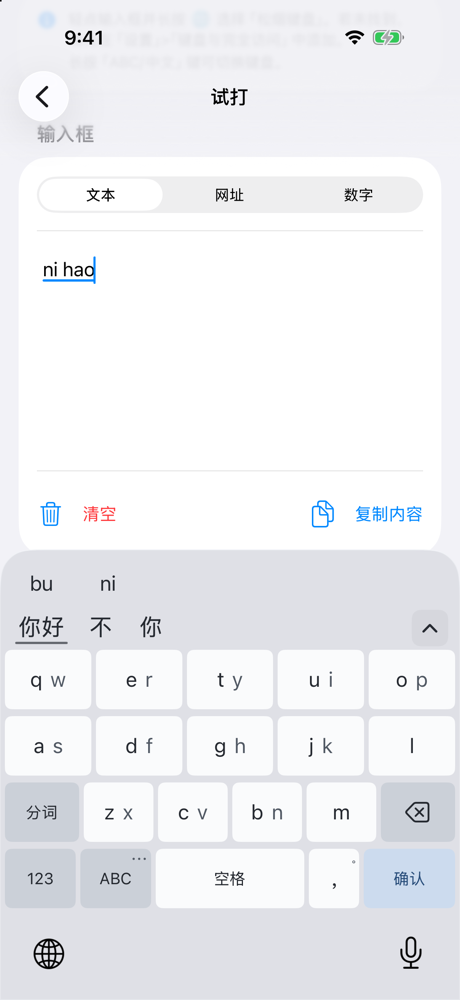
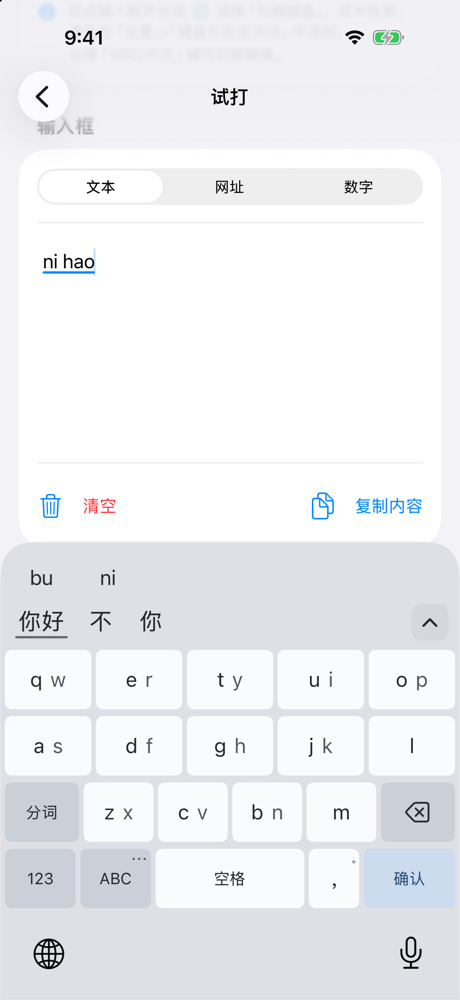
fix(keyboard): one top and bottom candidate gap shared by every layout

diff --git a/Packages/CandidateKit/Sources/CandidateKit/KeyboardPanelGeometry.swift b/Packages/CandidateKit/Sources/CandidateKit/KeyboardPanelGeometry.swift
@@ -181,20 +181,33 @@ public extension KeyboardPanelGeometry {
             + (candidateArea ? candidateAreaBonus - (reading ? readingLayoutBonusCut : 0) : 0)
     }
 
-    /// Extra height the candidate area gets beyond the configured budget (the configured budget alone leaves it too narrow),
-    /// minus the temporary `hostGapWorkaroundCut`. The candidate text sits low in the band
-    /// (`CandidateReadingRowPolicy.candidateDrop`), so the band is short below the text, not above it.
-    static let candidateAreaBonus: Double = 12 - hostGapWorkaroundCut
+    /// The two gaps every layout shares, as space beyond half the configured candidate row
+    /// (the candidate text is centred in that row):
+    /// - `candidateBottomSpace`: between the candidate text and the keys;
+    /// - `candidateTopSpace`: above the first text row (candidates on 9/26-key, readings on 14/18-key),
+    ///   before `hostGapWorkaroundCut` comes off the top.
+    /// 9/26-key and 14/18-key derive their band heights and text offsets from these, so a change to
+    /// either gap moves every layout together.
+    static let candidateBottomSpace: Double = 3
+    static let candidateTopSpace: Double = 9
+    /// Extra height the candidate area gets beyond the configured budget: both shared gaps,
+    /// minus the temporary `hostGapWorkaroundCut`.
+    static let candidateAreaBonus: Double = candidateTopSpace + candidateBottomSpace - hostGapWorkaroundCut
     /// TEMPORARY: iOS often adds a 17pt blank band above a third-party keyboard (after switching from a system
     /// keyboard or returning to the app; FB24460699 / FB25094825), which the extension cannot detect. Until Apple
     /// fixes it, every layout's shell is 10pt shorter and `fit` takes those 10pt off the top of the topmost band
     /// only, so the keyboard does not look too tall with the band while the candidates keep their place above
     /// the keys. Set back to 0 once the band is gone.
     static let hostGapWorkaroundCut: Double = 10
-    /// How much less candidate-area bonus a definition with a reading row (14-key) gets.
-    static let readingLayoutBonusCut: Double = 4
-    /// The share of spare height a reading row takes when present (the rest goes to the word row).
-    static let readingRowSpareShare: Double = 6
+    /// 14/18-key: the reading row's share of the spare height. It puts the (smaller, lower-set) reading text
+    /// where the 9/26-key candidate text starts, i.e. the same `candidateTopSpace` look.
+    static let readingRowSpareShare: Double = 10
+    /// 14/18-key: space above the candidate text (beyond half its row) under the reading row.
+    static let readingCandidateSpace: Double = 2
+    /// How much less candidate-area bonus a definition with a reading row gets (negative: more): its spare
+    /// height is the reading row's share, the space under it and the shared `candidateBottomSpace`.
+    static let readingLayoutBonusCut: Double =
+        candidateTopSpace - readingRowSpareShare - readingCandidateSpace
 
     /// Lays out a page with the given top bands inside `shellHeight`: the four key rows (three main rows +
     /// control row) share the remaining height equally but never exceed `standardKeyHeight`; extra height goes to

diff --git a/Packages/CandidateKit/Sources/CandidateKit/CandidateReadingRow.swift b/Packages/CandidateKit/Sources/CandidateKit/CandidateReadingRow.swift
@@ -36,12 +36,14 @@ public enum CandidateReadingRowPolicy {
     public static func textTopPadding(rowHeight: Double) -> Double {
         min(textDrop * 2, max(0, rowHeight - minimumHeight))
     }
-    /// How far word-candidate text sits below its row center when a reading row is present.
-    /// Half of the 4pt the candidate band gives up below the text (`candidateAreaBonus` 16 → 12),
-    /// so the space above the text stays and only the gap to the keys shrinks.
-    public static let candidateDrop: Double = 3
-    /// How far word-candidate text sits below its row center when there is no reading row, closer to the key area.
-    public static let plainCandidateDrop: Double = 3
+    /// How far word-candidate text sits below its row center when a reading row is present: splits the
+    /// band so the text keeps the shared `candidateBottomSpace` above the keys.
+    public static let candidateDrop: Double =
+        (KeyboardPanelGeometry.readingCandidateSpace - KeyboardPanelGeometry.candidateBottomSpace) / 2
+    /// How far word-candidate text sits below its row center when there is no reading row: splits the band
+    /// into the shared `candidateTopSpace` above the text and `candidateBottomSpace` below it.
+    public static let plainCandidateDrop: Double =
+        (KeyboardPanelGeometry.candidateTopSpace - KeyboardPanelGeometry.candidateBottomSpace) / 2
     public static let candidateLift: Double = 0
 
     /// In landscape (compact height) the shell is shorter: the reading row and font each shrink one step to leave height for key rows.

diff --git a/Packages/CandidateKit/Tests/CandidateKitTests/KeyboardPanelHeightStateTests.swift b/Packages/CandidateKit/Tests/CandidateKitTests/KeyboardPanelHeightStateTests.swift
@@ -50,11 +50,11 @@ final class KeyboardPanelHeightStateTests: XCTestCase {
             readingRowReserved: false, candidateAreaReserved: true)
         XCTAssertEqual(state.panelHeight, first.shellHeight)
         XCTAssertEqual(fit.keyHeight, 54)
-        XCTAssertEqual(fit.headerHeight, 70)
+        XCTAssertEqual(fit.headerHeight, 77)
         state.endPresentation()
         state.beginPresentation(height: next.shellHeight)
         XCTAssertEqual(state.panelHeight, next.shellHeight)
-        XCTAssertEqual(first.shellHeight - next.shellHeight, 28)
+        XCTAssertEqual(first.shellHeight - next.shellHeight, 35)
     }
 
     func testDisplayedSnapshotFitsTheFrozenShellWhenColdCacheDiffers() {

diff --git a/Packages/CandidateKit/Tests/CandidateKitTests/KeyboardColdEntryLayoutTests.swift b/Packages/CandidateKit/Tests/CandidateKitTests/KeyboardColdEntryLayoutTests.swift
@@ -34,8 +34,8 @@ final class KeyboardColdEntryLayoutTests: XCTestCase {
                 candidateHeight: 44, keyHeight: 54,
                 readingRow: true))
         XCTAssertEqual(
-            fixed, 306, accuracy: 0.01,
-            "44 candidate budget - 2 (bonus minus cuts) + 32 reading row + 4x54 key rows (candidate area flush to the top) = 14-key shell height 306"
+            fixed, 313, accuracy: 0.01,
+            "44 candidate budget + 5 (bonus minus cuts) + 32 reading row + 4x54 key rows (candidate area flush to the top) = 14-key shell height 313"
         )
         XCTAssertEqual(
             try measuredHeight(

diff --git a/Packages/CandidateKit/Tests/CandidateKitTests/KeyboardPanelGeometryTests.swift b/Packages/CandidateKit/Tests/CandidateKitTests/KeyboardPanelGeometryTests.swift
@@ -487,7 +487,7 @@ final class KeyboardPanelGeometryTests: XCTestCase {
         let standard = KeyboardPanelGeometry.presentationShellHeight(
             candidateHeight: candidateHeight,
             keyHeight: 54, readingRow: false)
-        XCTAssertEqual(fourteen, 302)
+        XCTAssertEqual(fourteen, 309)
         XCTAssertEqual(
             fourteen - standard, CandidateReadingRowPolicy.height - KeyboardPanelGeometry.readingLayoutBonusCut)
         let reading = CandidateReadingRowPolicy.height
